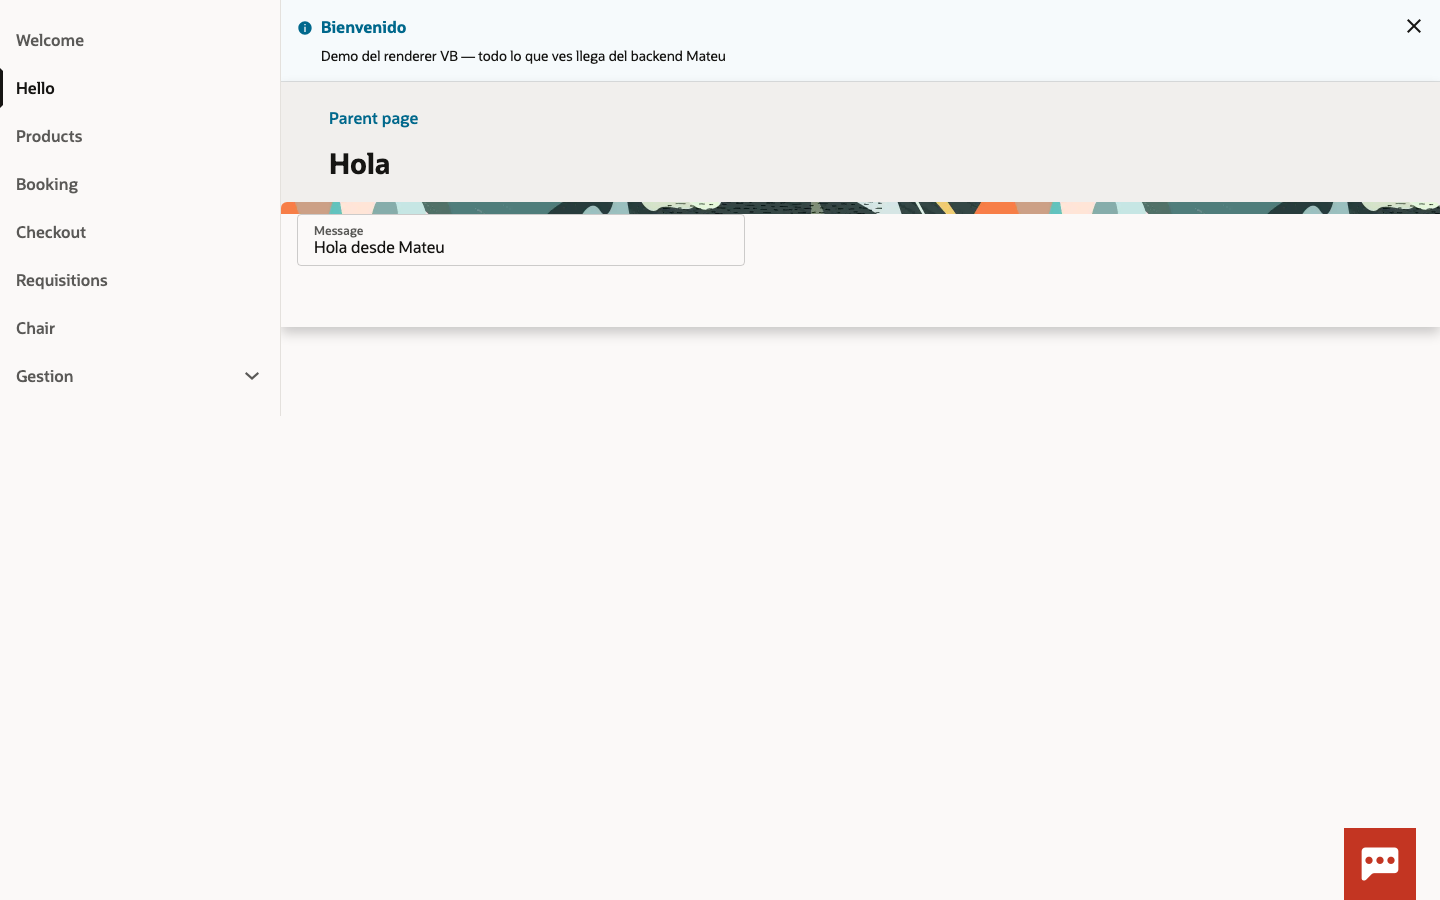
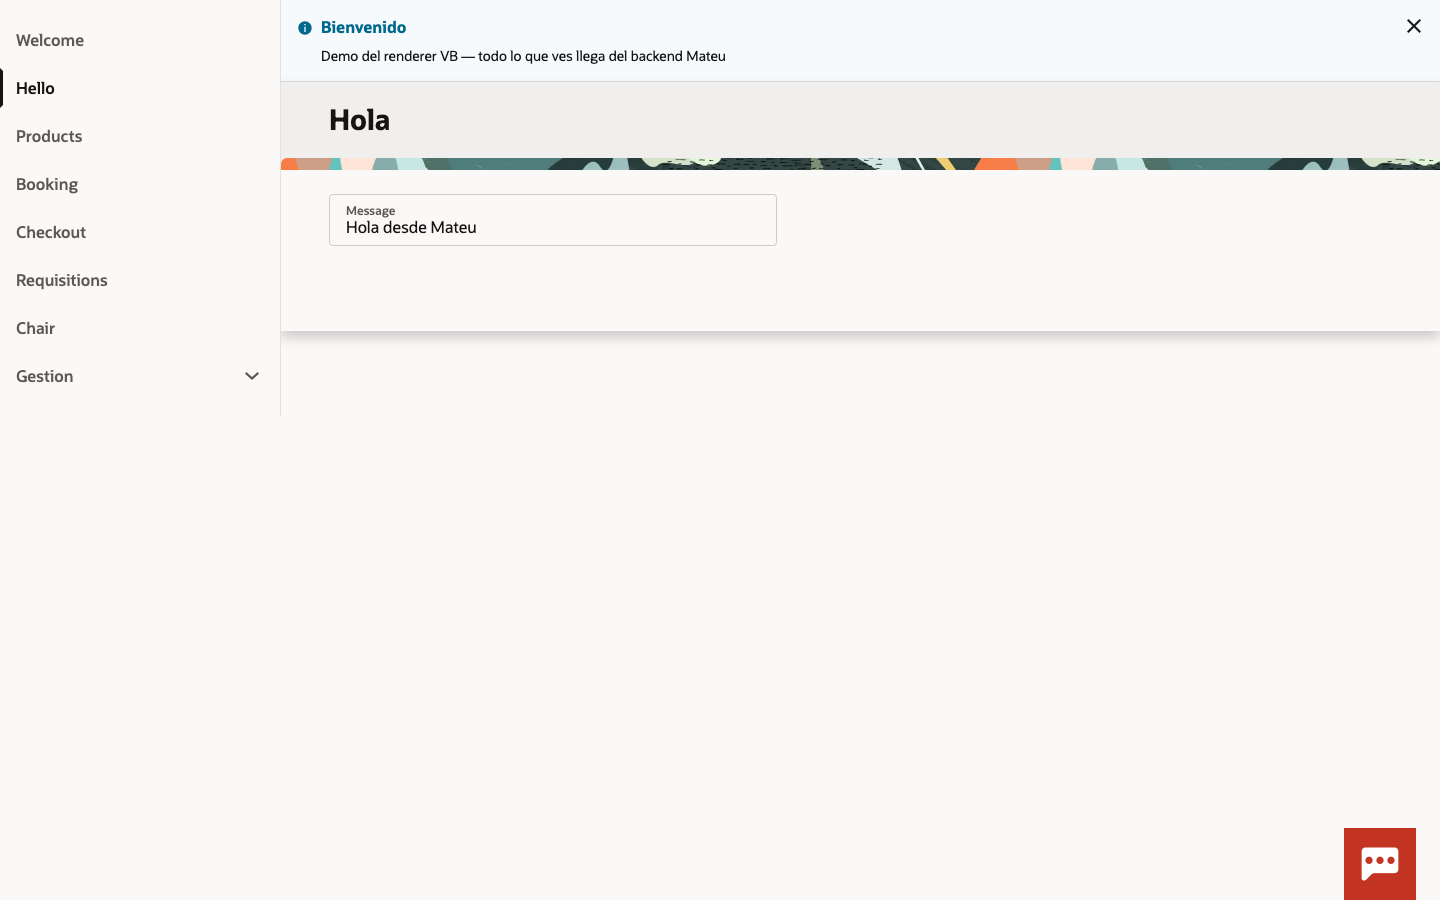
fix(vb): gutters de contenido alineados a la escala core de OJET
El contenido bajo header a sangre usa oj-sm-padding-12x-horizontal (48px =
--oj-core-spacing-12x, el mismo sangrado interno del título de los headers
oj-sp) + oj-sm-padding-6x-vertical (24px, gutter RDS) — solo utility classes
JET, cero CSS propio. Form/tabla quedan alineados exactamente con el título.

Changed region(s): [[0.1875, 0.1244, 1.0, 0.28], [0.2188, 0.3422, 1.0, 0.3733]]

diff --git a/.dev/vb/mateu-vb/webApps/vbredwoodapp/flows/main/pages/main-start-page.html b/.dev/vb/mateu-vb/webApps/vbredwoodapp/flows/main/pages/main-start-page.html
@@ -19,7 +19,7 @@
 </oj-bind-if>
 
 <oj-bind-if test="[[ !$application.variables.mateuFormMetadata ]]">
-  <div class="oj-flex oj-sm-padding-4x-horizontal">
+  <div class="oj-flex oj-sm-padding-12x-horizontal oj-sm-padding-6x-vertical">
     <div class="oj-flex-item oj-sm-12 oj-md-12">
       <oj-bind-text
         value="[[ $application.variables.mateuHostText ]]"
@@ -67,7 +67,7 @@
     secondary-action="[[ $application.variables.mateuWelcome.secondaryCta ]]"
     on-sp-primary-action="[[ $listeners.welcomePrimary ]]"
     on-sp-secondary-action="[[ $listeners.welcomeSecondary ]]"></oj-sp-header-welcome-banner>
-  <div class="oj-flex oj-sm-margin-6x-top oj-sm-padding-4x-horizontal">
+  <div class="oj-flex oj-sm-margin-6x-top oj-sm-padding-12x-horizontal">
     <oj-bind-for-each data="[[ $application.variables.mateuWelcome.tiles ]]">
       <template>
         <div class="oj-flex-item oj-sm-12 oj-md-4">
@@ -95,7 +95,7 @@
     select-object-value="[[ $application.variables.mateuOverview.switcherValue ]]"
     translations="[[ $application.variables.mateuOverviewTranslations ]]"
     on-select-object-value-changed="[[ $listeners.overviewSwitched ]]"></oj-sp-header-general-overview>
-  <div class="oj-flex oj-sm-margin-6x-top oj-sm-padding-4x-horizontal">
+  <div class="oj-flex oj-sm-margin-6x-top oj-sm-padding-12x-horizontal">
     <oj-bind-for-each data="[[ $application.variables.mateuOverview.cards ]]">
       <template>
         <div class="oj-flex-item oj-sm-12 oj-md-6">
@@ -115,7 +115,7 @@
 
 <!-- Arquetipo ITEM OVERVIEW: datos clave a la izquierda + tabs a la derecha -->
 <oj-bind-if test="[[ !!$application.variables.mateuItemOv ]]">
-  <div class="oj-flex oj-sm-padding-4x-horizontal">
+  <div class="oj-flex oj-sm-padding-12x-horizontal oj-sm-padding-6x-vertical">
     <div class="oj-flex-item oj-sm-12 oj-md-4">
       <div class="oj-panel oj-sm-margin-2x">
         <oj-bind-for-each data="[[ $application.variables.mateuItemOv.key.texts ]]">
@@ -155,7 +155,7 @@
     secondary-actions="[[ $application.variables.mateuListSecondary ]]"
     on-sp-primary-action="[[ $listeners.listPrimary ]]"
     on-sp-secondary-action="[[ $listeners.listSecondary ]]">
-  <div slot="main" class="oj-sm-padding-4x-horizontal">
+  <div slot="main" class="oj-sm-padding-12x-horizontal oj-sm-padding-6x-vertical">
   <div class="oj-flex">
     <div class="oj-flex-item oj-sm-12 oj-md-8">
       <oj-input-search id="mateuSearch" class="oj-sm-margin-4x-bottom"
@@ -295,7 +295,7 @@
 </oj-bind-if>
 
 <oj-bind-if test="[[ !!$application.variables.mateuFormMetadata && !$application.variables.mateuWizard ]]">
-  <div class="oj-flex oj-sm-padding-4x-horizontal">
+  <div class="oj-flex oj-sm-padding-12x-horizontal oj-sm-padding-6x-vertical">
     <div class="oj-flex-item oj-sm-12 oj-md-6">
       <oj-sp-messages-toast primary-text="[[ $variables.mateuToastText ]]" id="mateuToast"></oj-sp-messages-toast>
       <oj-form-layout id="mateuForm">
@@ -347,7 +347,7 @@
 <!-- Isla embebida (Fase 9): superficie PROPIA alimentada por contexts[islandId] — sus
      acciones (Edit/Save) solo repintan la isla; el host no se toca -->
 <oj-bind-if test="[[ !!$application.variables.mateuIsland ]]">
-  <div class="oj-flex oj-sm-padding-4x-horizontal">
+  <div class="oj-flex oj-sm-padding-12x-horizontal oj-sm-padding-6x-vertical">
     <div class="oj-flex-item oj-sm-12 oj-md-6">
       <oj-sp-messages-toast primary-text="[[ $variables.mateuToastText ]]" id="mateuIslandToast"></oj-sp-messages-toast>
       <oj-form-layout id="mateuIslandForm">

diff --git a/.dev/vb/DESIGN-NOTES.md b/.dev/vb/DESIGN-NOTES.md
@@ -462,6 +462,16 @@ el h1 se ELIMINÓ del renderer. Reparto por tipo de página:
 - Los botones de formulario/isla se quedan con su contenido (el wire de Mateu no distingue
   toolbar de página vs botones de form en `actionsOf`; los del crud sí viajan aparte).
 
+**Gutters del contenido (2026-07-25)**: el sangrado interno del título de los headers oj-sp es
+`--oj-core-spacing-12x` (3rem = 48px). El contenido bajo un header a sangre se alinea con la
+clase utilitaria JET de la MISMA escala: `oj-sm-padding-12x-horizontal` (48px) +
+`oj-sm-padding-6x-vertical` (24px, el gutter RDS) para la respiración bajo la franja
+decorativa. `oj-sp-public-primary-content-container` NO trae padding propio (computa 0), y no
+existe ninguna clase pública `oj-sp-*` de padding de contenido — las utility classes de
+espaciado JET (escala 1x=4px, hasta 12x) son la vía oficial OJET. Medido empíricamente
+(getComputedStyle sobre probes): el h1 del header queda a 48px del borde del contenedor; con
+12x el form/tabla quedan alineados EXACTAMENTE con el título.
+
 Evidencia: `shots/fase4.png` (products), `hdr-person.png`, `hdr-island.png`, `hdr-hello.png`,
 `hdr-booking.png`, `hdr-chair.png`.
 
